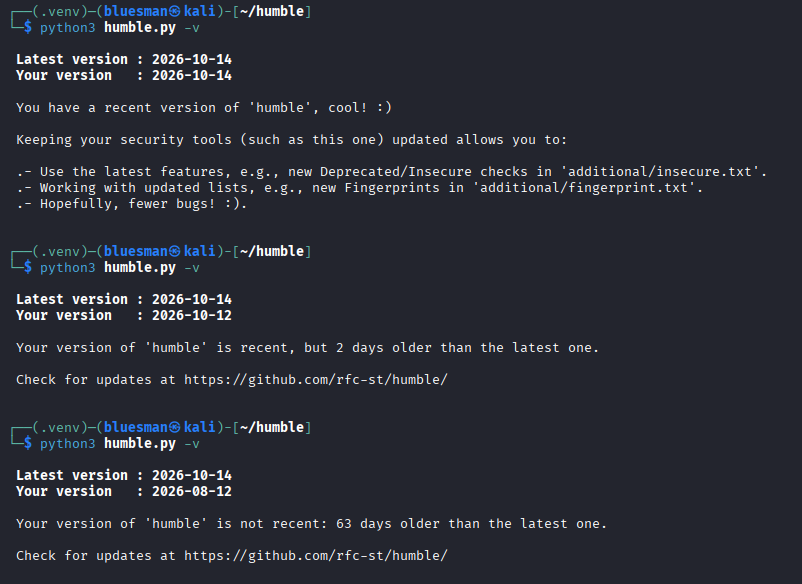
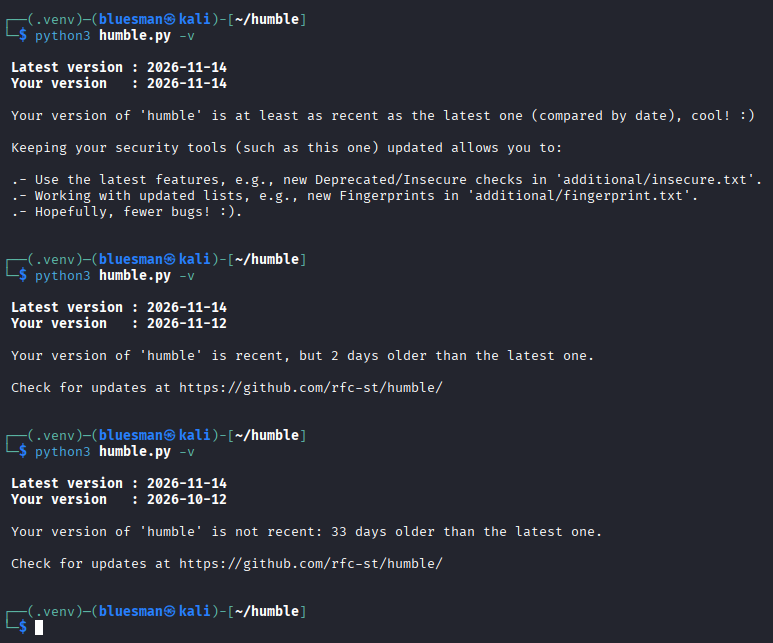
Fix: The '-v' message states that versions are compared by date

diff --git a/humble.py b/humble.py
@@ -76,7 +76,7 @@ Reference/Status/", "https://raw.githubusercontent.com/rfc-st/humble/master/\
 humble.py", "https://github.com/rfc-st/humble")
 DATE_FORMAT = "%Y/%m/%d - %H:%M:%S"
 current_time = datetime.now().astimezone().strftime(DATE_FORMAT)
-local_version = date.fromisoformat("2026-11-14")
+local_version = date.fromisoformat("2026-11-20")
 BANNER_VERSION = f"{URL_LIST[4]} | v.{local_version}"
 
 # Files, path resolution and system directories

diff --git a/tests/test_humble.py b/tests/test_humble.py
@@ -1711,7 +1711,7 @@ def cleanup_analysis_history():
         fsync(original_file.fileno())
 
 
-local_version = date.fromisoformat("2026-11-13")
+local_version = date.fromisoformat("2026-11-20")
 parser = ArgumentParser(
     formatter_class=lambda prog: RawDescriptionHelpFormatter(
         prog, max_help_position=34,

diff --git a/README.md b/README.md
@@ -6,7 +6,7 @@
 <a target="_blank" href="https://devguide.python.org/versions/" title="Minimum Python version required to run this tool"><img src="https://img.shields.io/badge/Python-%3E%3D3.11-blue?labelColor=343b41"></a>
 <a target="_blank" href="LICENSE" title="License of this tool"><img src="https://img.shields.io/badge/License-MIT-blue.svg?labelColor=343b41"></a>
 <a target="_blank" href="https://github.com/rfc-st/humble/releases" title="Latest release of this tool"><img src="https://img.shields.io/github/v/release/rfc-st/humble?display_name=release&label=Latest%20Release&labelColor=343b41"></a>
-<a target="_blank" href="https://github.com/rfc-st/humble/commits/master" title="Latest commit of this tool"><img src="https://img.shields.io/badge/Latest_Commit-2026--11--14-blue.svg?labelColor=343b41"></a>
+<a target="_blank" href="https://github.com/rfc-st/humble/commits/master" title="Latest commit of this tool"><img src="https://img.shields.io/badge/Latest_Commit-2026--11--20-blue.svg?labelColor=343b41"></a>
 <a target="_blank" href="https://pkg.kali.org/pkg/humble" title="Official tool in Kali Linux"><img src="https://img.shields.io/badge/Kali%20Linux-Tool-blue?labelColor=343b41"></a>
 <br />
 <a target="_blank" href="#" title="Featured on:"><img src="https://img.shields.io/badge/Featured%20on:-343b41"></a>

diff --git a/docs/index.md b/docs/index.md
@@ -82,6 +82,6 @@ And a special greeting to Alba, Aleix, Alejandro (x3), Álvaro, Ana, Carlos (x3)
 <aside class="md-source-file">
 <span class="md-source-file__fact">
 Last updated on
-<span class="git-revision-date-localized-plugin git-revision-date-localized-plugin-datetime"><em>November 14, 2026</em></span>
+<span class="git-revision-date-localized-plugin git-revision-date-localized-plugin-datetime"><em>November 20, 2026</em></span>
 </span>
 </aside>

diff --git a/docs/unit_tests.md b/docs/unit_tests.md
@@ -30,6 +30,6 @@ Unit test descriptions are retrieved via `print_results` and `get_detail` functi
 <aside class="md-source-file">
 <span class="md-source-file__fact">
 Last updated on
-<span class="git-revision-date-localized-plugin git-revision-date-localized-plugin-datetime"><em>November 14, 2026</em></span>
+<span class="git-revision-date-localized-plugin git-revision-date-localized-plugin-datetime"><em>November 20, 2026</em></span>
 </span>
 </aside>

diff --git a/docs/references.md b/docs/references.md
@@ -5,6 +5,6 @@
 <aside class="md-source-file">
 <span class="md-source-file__fact">
 Last updated on
-<span class="git-revision-date-localized-plugin git-revision-date-localized-plugin-datetime"><em>November 14, 2026</em></span>
+<span class="git-revision-date-localized-plugin git-revision-date-localized-plugin-datetime"><em>November 20, 2026</em></span>
 </span>
 </aside>
